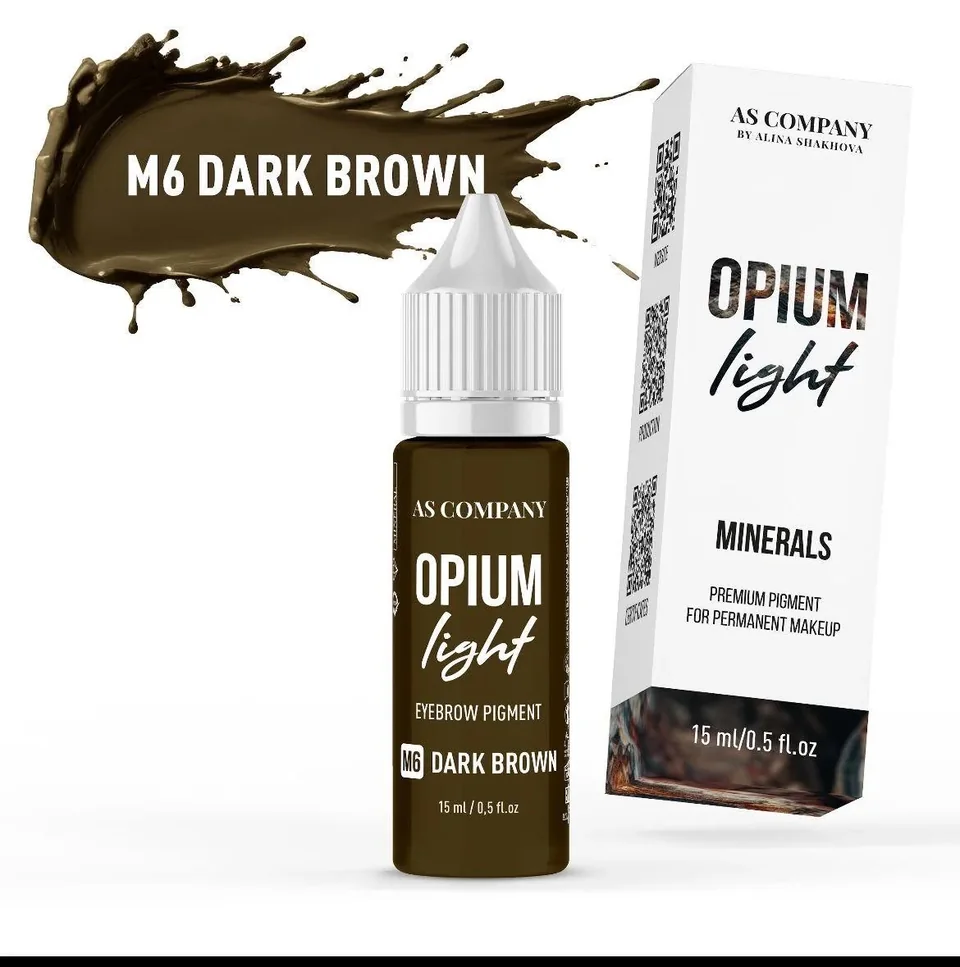
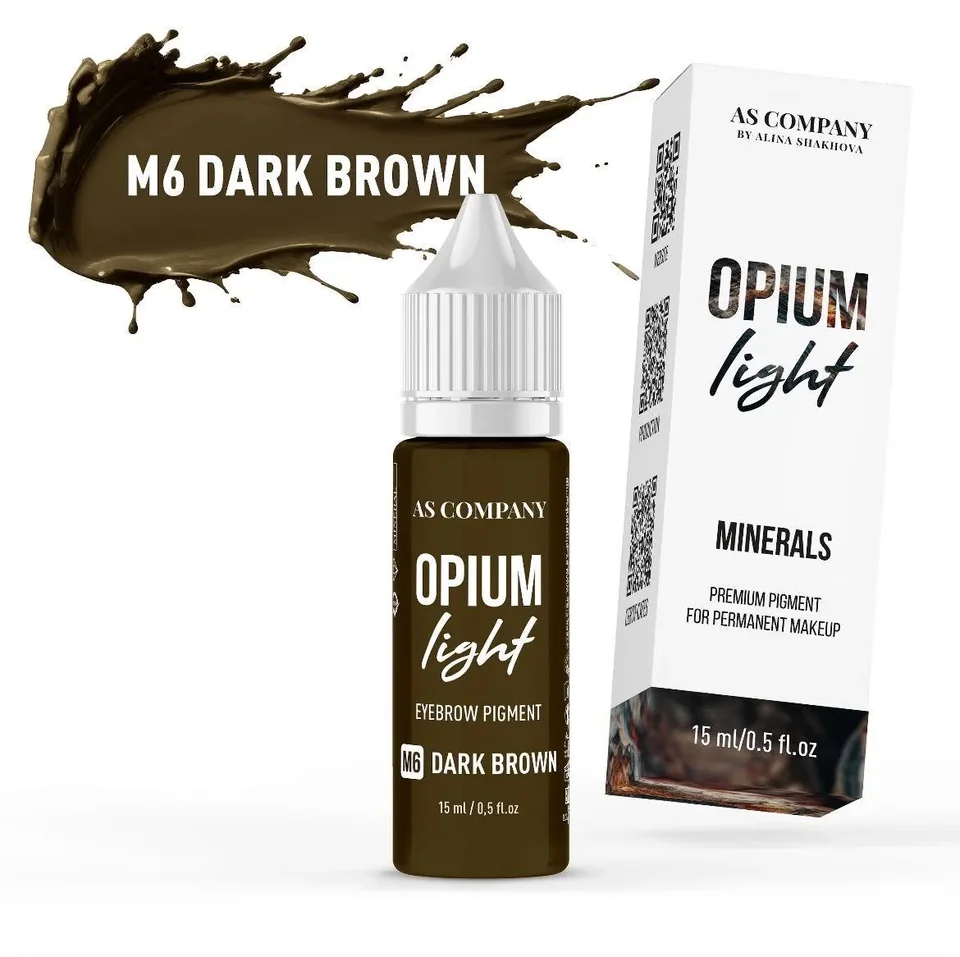
Weryfikacja uwag: pasek na zdjęciu M6, data ceny Kariny
- M6 Dark Brown (AS OPIUM Light Minerals): czarny pasek 13 px z dołu zrzutu
  WhatsApp przycięty (PRODUCT_TRIM w skrypcie grafik – tylko ten packshot;
  zdjęcia na czarnym tle bez zmian).
- Hairstrokes Set Collaboration (cena od Kariny): okno „Szczegóły” i lista
  zamówienia podają datę 14.10.2026 zamiast 29.09; lista z samymi cenami
  od klientki pokazuje sumę bez dopisku o nieaktualnych cenach.

diff --git a/src/components/pigments/OrderDialog.jsx b/src/components/pigments/OrderDialog.jsx
@@ -40,7 +40,7 @@ import { ArrowLink, Field, FormNotice } from '@/components/as/Primitives';
 import { ENQUIRY_LIVE, ENQUIRY_STATUS, enquiryMessage, sendEnquiry } from '@/lib/enquiry';
 import { collectionLabel, formatCapacity, formatPrice, formatSyncedDate } from '@/lib/pigments';
 import { CONTACT } from '@/lib/site';
-import { isShopProduct } from '@/lib/shop';
+import { SHOP_PRICE_DATE, isShopProduct } from '@/lib/shop';
 import { NBSP, PRICE_TBC, Swatch, usePricesStale } from './parts';
 import { QTY_MAX, QTY_MIN } from './useOrder';
 
@@ -195,9 +195,12 @@ const TEXT_BTN =
 
 /* `syncedAt` – data cen strony, która otwiera listę (domyślnie pigmenty; /sklep – data sklepu) */
 export default function OrderDialog({ open, onOpenChange, order, onBrowse, onCloseAutoFocus, syncedAt }) {
-  const synced = syncedAt ? formatSyncedDate(syncedAt) : SYNCED;
   const { summary, setQty, remove, clear } = order;
-  const stale = usePricesStale();
+  /* lista wyłącznie z cenami od klientki (clientPrice) – kwoty aktualne, data jej wiadomości */
+  const onlyClient = summary.lines.length > 0 && summary.lines.every((l) => l.product.clientPrice);
+  const synced = onlyClient ? formatSyncedDate(SHOP_PRICE_DATE) : syncedAt ? formatSyncedDate(syncedAt) : SYNCED;
+  const pricesStale = usePricesStale();
+  const stale = pricesStale && !onlyClient;
   const [form, setForm] = useState(EMPTY_FORM);
   const [result, setResult] = useState(null); // { status }
   const [copy, setCopy] = useState(null); // 'ok' | 'error'

diff --git a/src/components/pigments/ProductDialog.jsx b/src/components/pigments/ProductDialog.jsx
@@ -80,7 +80,8 @@ function Body({ product, onAdd, onClose, qty, onShowOrder }) {
   const hasPhoto = Boolean(productPhoto(product.id));
   /* produkt sklepu (/sklep): bez stref i próbki koloru, data cen z danych sklepu */
   const shop = isShopProduct(product);
-  const synced = shop ? SHOP_SYNCED : SYNCED;
+  /* cena od klientki (clientPrice, np. zestaw z listy Kariny) – data jej wiadomości, jak w sklepie */
+  const synced = shop || product.clientPrice ? SHOP_SYNCED : SYNCED;
   /* pojemność w przycisku tylko przy wyborze (kilka butelek) – wybór stoi wyżej w treści */
   const capLabel = multi && variant?.label ? formatCapacity(variant.label) : null;
 

diff --git a/scripts/przygotuj-grafiki.py b/scripts/przygotuj-grafiki.py
@@ -155,6 +155,9 @@ NEW_WORKS = {
 ROTATED_WORKS = {
     'work-powder-01-r': ('23.07.50', (0.20, 0.0, 0.965, 1.0), 'CCW'),  # brew poziomo nad okiem
 }
+# Packshoty z czarnym paskiem po zrzucie WhatsApp (dół pliku) – przycinane trim_black_bars.
+# Tylko wskazane: zdjęcia na czarnym tle (LTB Numb, Set Harley Quinn) straciłyby kadr.
+PRODUCT_TRIM = {'product-as-opium-light-minerals-pigments-dark-brown'}
 NEW_SKIP = {
     '23.05.38 (3)', '23.05.38 (4)',  # lampa TheOne – inne ujęcia (na stronie 23.05.38 (5))
     '23.05.38 (7)', '23.05.38 (8)', '23.05.39', '23.05.39 (1)',
@@ -383,7 +386,8 @@ def main():
     if not only or 'product' in only:
         for name, suffix in NEW_PRODUCTS.items():
             i = by_suffix[suffix]
-            save_all(load(i), name, 'product', manifest)
+            im = load(i)
+            save_all(trim_black_bars(im) if name in PRODUCT_TRIM else im, name, 'product', manifest)
             used.add(i)
     if not only or 'work' in only:
         for name, (suffix, box) in NEW_WORKS.items():
